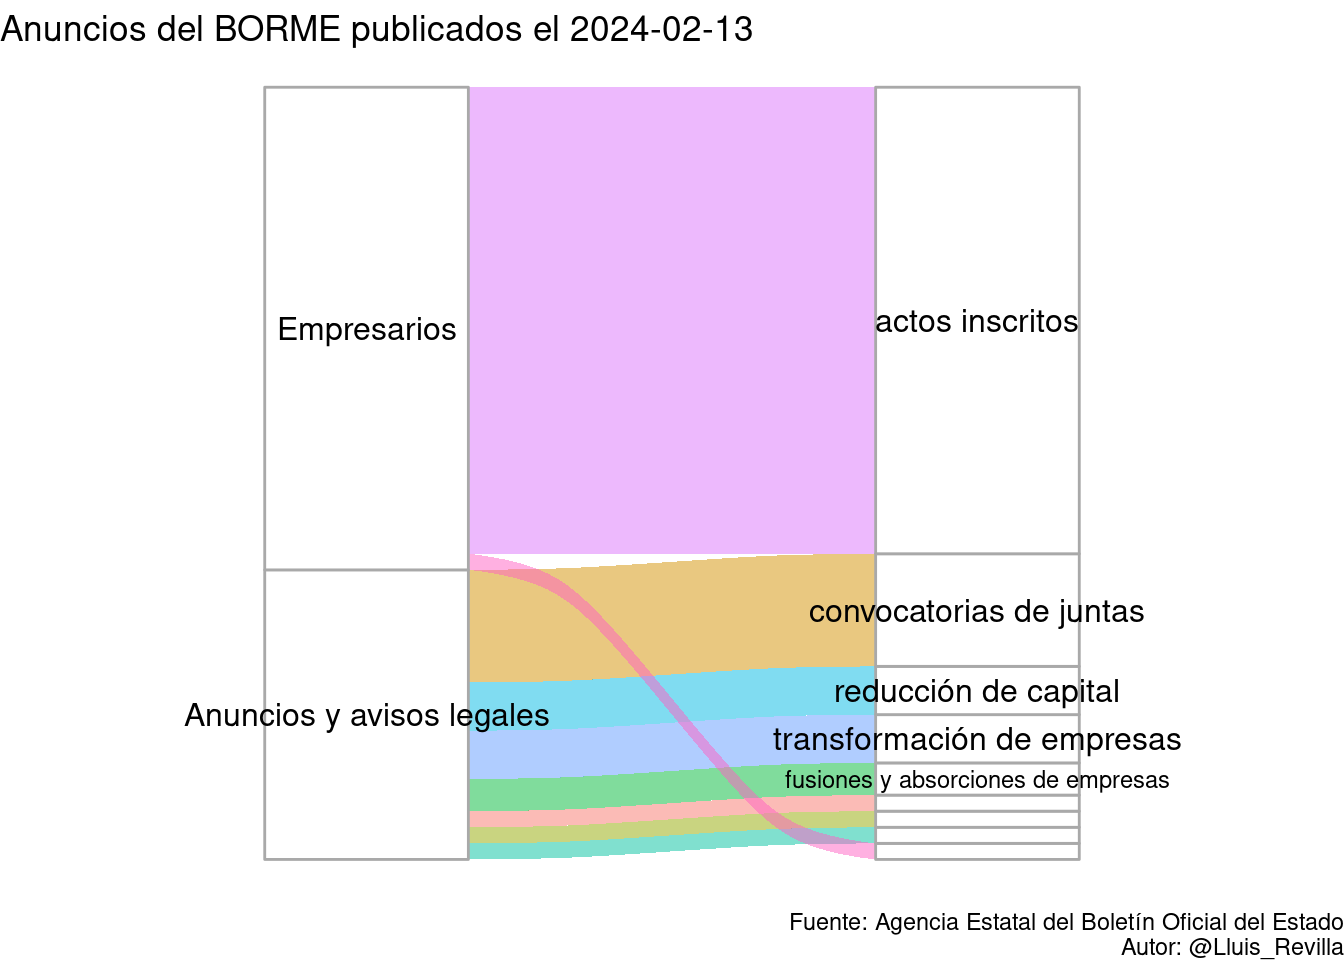
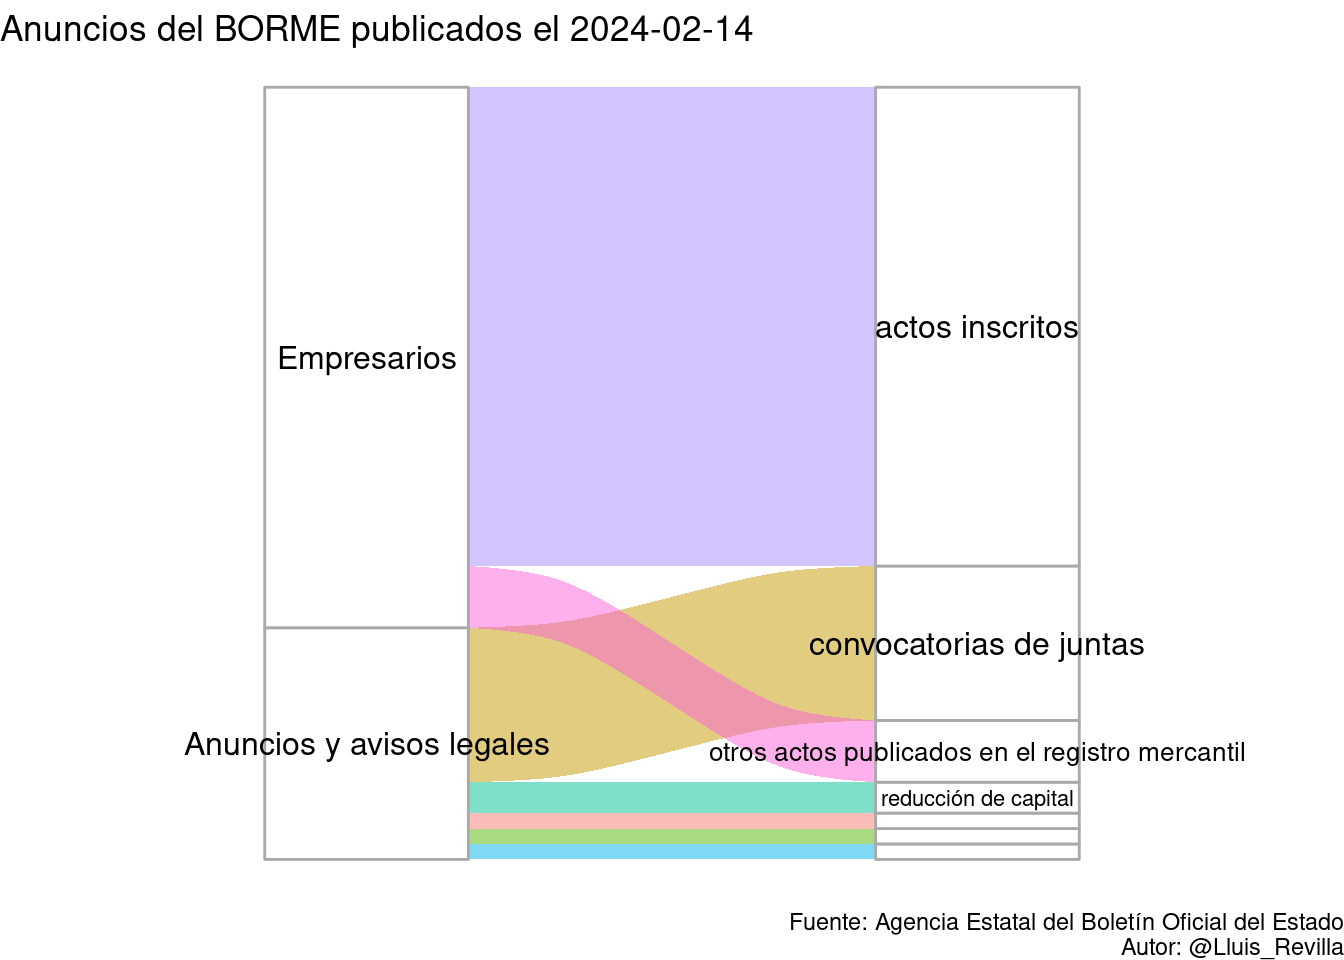
Update BORME

Changed region(s): [[0.125, 0.0938, 0.9375, 0.9062], [0.5312, 0.0, 0.5625, 0.0625]]

diff --git a/docs/last_BORME.html b/docs/last_BORME.html
@@ -379,14 +379,14 @@ $(document).ready(function () {
 
 <div id="resumen-gráfico" class="section level1">
 <h1>Resumen gráfico</h1>
-<p>Esta página web contiene el último sumario del BORME publicado el 2024-02-13 con 48 publicaciones.</p>
+<p>Esta página web contiene el último sumario del BORME publicado el 2024-02-14 con 50 publicaciones.</p>
 <p><img src="last_BORME_files/figure-html/graphics-1.png" width="672" /></p>
 </div>
 <div id="tabla-de-publicaciones" class="section level1">
 <h1>Tabla de publicaciones</h1>
 <p>Aquí está la tabla completa con enlaces a las publicaciones:</p>
-<div class="datatables html-widget html-fill-item-overflow-hidden html-fill-item" id="htmlwidget-06c4f63d8e0a72043e4e" style="width:100%;height:auto;"></div>
-<script type="application/json" data-for="htmlwidget-06c4f63d8e0a72043e4e">{"x":{"filter":"top","vertical":false,"filterHTML":"<tr>\n  <td><\/td>\n  <td data-type=\"character\" style=\"vertical-align: top;\">\n    <div class=\"form-group has-feedback\" style=\"margin-bottom: auto;\">\n      <input type=\"search\" placeholder=\"All\" class=\"form-control\" style=\"width: 100%;\"/>\n      <span class=\"glyphicon glyphicon-remove-circle form-control-feedback\"><\/span>\n    <\/div>\n  <\/td>\n  <td data-type=\"character\" style=\"vertical-align: top;\">\n    <div class=\"form-group has-feedback\" style=\"margin-bottom: auto;\">\n      <input type=\"search\" placeholder=\"All\" class=\"form-control\" style=\"width: 100%;\"/>\n      <span class=\"glyphicon glyphicon-remove-circle form-control-feedback\"><\/span>\n    <\/div>\n  <\/td>\n  <td data-type=\"character\" style=\"vertical-align: top;\">\n    <div class=\"form-group has-feedback\" style=\"margin-bottom: auto;\">\n      <input type=\"search\" placeholder=\"All\" class=\"form-control\" style=\"width: 100%;\" disabled=\"\"/>\n      <span class=\"glyphicon glyphicon-remove-circle form-control-feedback\"><\/span>\n    <\/div>\n  <\/td>\n  <td data-type=\"character\" style=\"vertical-align: top;\">\n    <div class=\"form-group has-feedback\" style=\"margin-bottom: auto;\">\n      <input type=\"search\" placeholder=\"All\" class=\"form-control\" style=\"width: 100%;\"/>\n      <span class=\"glyphicon glyphicon-remove-circle form-control-feedback\"><\/span>\n    <\/div>\n  <\/td>\n<\/tr>","data":[["1","2","3","4","5","6","7","8","9","10","11","12","13","14","15","16","17","18","19","20","21","22","23","24","25","26","27","28","29","30","31","32","33","34","35","36","37","38","39","40","41","42","43","44","45","46","47","48"],["SECCIÓN PRIMERA. Empresarios","SECCIÓN PRIMERA. Empresarios","SECCIÓN PRIMERA. Empresarios","SECCIÓN PRIMERA. Empresarios","SECCIÓN PRIMERA. Empresarios","SECCIÓN PRIMERA. Empresarios","SECCIÓN PRIMERA. Empresarios","SECCIÓN PRIMERA. Empresarios","SECCIÓN PRIMERA. Empresarios","SECCIÓN PRIMERA. Empresarios","SECCIÓN PRIMERA. Empresarios","SECCIÓN PRIMERA. Empresarios","SECCIÓN PRIMERA. Empresarios","SECCIÓN PRIMERA. Empresarios","SECCIÓN PRIMERA. Empresarios","SECCIÓN PRIMERA. Empresarios","SECCIÓN PRIMERA. Empresarios","SECCIÓN PRIMERA. Empresarios","SECCIÓN PRIMERA. Empresarios","SECCIÓN PRIMERA. Empresarios","SECCIÓN PRIMERA. Empresarios","SECCIÓN PRIMERA. Empresarios","SECCIÓN PRIMERA. Empresarios","SECCIÓN PRIMERA. Empresarios","SECCIÓN PRIMERA. Empresarios","SECCIÓN PRIMERA. Empresarios","SECCIÓN PRIMERA. Empresarios","SECCIÓN PRIMERA. Empresarios","SECCIÓN PRIMERA. Empresarios","SECCIÓN PRIMERA. Empresarios","SECCIÓN SEGUNDA. Anuncios y avisos legales","SECCIÓN SEGUNDA. Anuncios y avisos legales","SECCIÓN SEGUNDA. Anuncios y avisos legales","SECCIÓN SEGUNDA. Anuncios y avisos legales","SECCIÓN SEGUNDA. Anuncios y avisos legales","SECCIÓN SEGUNDA. Anuncios y avisos legales","SECCIÓN SEGUNDA. Anuncios y avisos legales","SECCIÓN SEGUNDA. Anuncios y avisos legales","SECCIÓN SEGUNDA. Anuncios y avisos legales","SECCIÓN SEGUNDA. Anuncios y avisos legales","SECCIÓN SEGUNDA. Anuncios y avisos legales","SECCIÓN SEGUNDA. Anuncios y avisos legales","SECCIÓN SEGUNDA. Anuncios y avisos legales","SECCIÓN SEGUNDA. Anuncios y avisos legales","SECCIÓN SEGUNDA. Anuncios y avisos legales","SECCIÓN SEGUNDA. Anuncios y avisos legales","SECCIÓN SEGUNDA. Anuncios y avisos legales","SECCIÓN SEGUNDA. Anuncios y avisos legales"],["Actos inscritos","Actos inscritos","Actos inscritos","Actos inscritos","Actos inscritos","Actos inscritos","Actos inscritos","Actos inscritos","Actos inscritos","Actos inscritos","Actos inscritos","Actos inscritos","Actos inscritos","Actos inscritos","Actos inscritos","Actos inscritos","Actos inscritos","Actos inscritos","Actos inscritos","Actos inscritos","Actos inscritos","Actos inscritos","Actos inscritos","Actos inscritos","Actos inscritos","Actos inscritos","Actos inscritos","Actos inscritos","Actos inscritos","Otros actos publicados en el Registro Mercantil","CONVOCATORIAS DE JUNTAS","CONVOCATORIAS DE JUNTAS","CONVOCATORIAS DE JUNTAS","CONVOCATORIAS DE JUNTAS","CONVOCATORIAS DE JUNTAS","CONVOCATORIAS DE JUNTAS","CONVOCATORIAS DE JUNTAS","FUSIONES Y ABSORCIONES DE EMPRESAS","FUSIONES Y ABSORCIONES DE EMPRESAS","ESCISIÓN DE EMPRESAS","TRANSFORMACIÓN DE EMPRESAS","TRANSFORMACIÓN DE EMPRESAS","TRANSFORMACIÓN DE EMPRESAS","AUMENTO DE CAPITAL","REDUCCIÓN DE CAPITAL","REDUCCIÓN DE CAPITAL","REDUCCIÓN DE CAPITAL","OTROS ANUNCIOS Y AVISOS LEGALES"],[null,null,null,null,null,null,null,null,null,null,null,null,null,null,null,null,null,null,null,null,null,null,null,null,null,null,null,null,null,null,null,null,null,null,null,null,null,null,null,null,null,null,null,null,null,null,null,null],["BORME-A-2024-31-02","BORME-A-2024-31-03","BORME-A-2024-31-04","BORME-A-2024-31-06","BORME-A-2024-31-07","BORME-A-2024-31-08","BORME-A-2024-31-11","BORME-A-2024-31-12","BORME-A-2024-31-13","BORME-A-2024-31-14","BORME-A-2024-31-15","BORME-A-2024-31-21","BORME-A-2024-31-22","BORME-A-2024-31-25","BORME-A-2024-31-26","BORME-A-2024-31-28","BORME-A-2024-31-29","BORME-A-2024-31-30","BORME-A-2024-31-35","BORME-A-2024-31-36","BORME-A-2024-31-40","BORME-A-2024-31-43","BORME-A-2024-31-44","BORME-A-2024-31-45","BORME-A-2024-31-46","BORME-A-2024-31-47","BORME-A-2024-31-48","BORME-A-2024-31-50","BORME-A-2024-31-99","BORME-B-2024-31-08","BORME-C-2024-461","BORME-C-2024-462","BORME-C-2024-463","BORME-C-2024-464","BORME-C-2024-465","BORME-C-2024-466","BORME-C-2024-467","BORME-C-2024-468","BORME-C-2024-469","BORME-C-2024-470","BORME-C-2024-471","BORME-C-2024-472","BORME-C-2024-473","BORME-C-2024-474","BORME-C-2024-475","BORME-C-2024-476","BORME-C-2024-477","BORME-C-2024-478"]],"container":"<table class=\"display\">\n  <thead>\n    <tr>\n      <th> <\/th>\n      <th>Sección<\/th>\n      <th>Emisor<\/th>\n      <th>Texto<\/th>\n      <th>Link<\/th>\n    <\/tr>\n  <\/thead>\n<\/table>","options":{"pageLength":10,"autoWidth":true,"columnDefs":[{"orderable":false,"targets":0},{"name":" ","targets":0},{"name":"Sección","targets":1},{"name":"Emisor","targets":2},{"name":"Texto","targets":3},{"name":"Link","targets":4}],"order":[],"orderClasses":false,"orderCellsTop":true}},"evals":[],"jsHooks":[]}</script>
+<div class="datatables html-widget html-fill-item-overflow-hidden html-fill-item" id="htmlwidget-d35bfb66392632e34597" style="width:100%;height:auto;"></div>
+<script type="application/json" data-for="htmlwidget-d35bfb66392632e34597">{"x":{"filter":"top","vertical":false,"filterHTML":"<tr>\n  <td><\/td>\n  <td data-type=\"character\" style=\"vertical-align: top;\">\n    <div class=\"form-group has-feedback\" style=\"margin-bottom: auto;\">\n      <input type=\"search\" placeholder=\"All\" class=\"form-control\" style=\"width: 100%;\"/>\n      <span class=\"glyphicon glyphicon-remove-circle form-control-feedback\"><\/span>\n    <\/div>\n  <\/td>\n  <td data-type=\"character\" style=\"vertical-align: top;\">\n    <div class=\"form-group has-feedback\" style=\"margin-bottom: auto;\">\n      <input type=\"search\" placeholder=\"All\" class=\"form-control\" style=\"width: 100%;\"/>\n      <span class=\"glyphicon glyphicon-remove-circle form-control-feedback\"><\/span>\n    <\/div>\n  <\/td>\n  <td data-type=\"character\" style=\"vertical-align: top;\">\n    <div class=\"form-group has-feedback\" style=\"margin-bottom: auto;\">\n      <input type=\"search\" placeholder=\"All\" class=\"form-control\" style=\"width: 100%;\" disabled=\"\"/>\n      <span class=\"glyphicon glyphicon-remove-circle form-control-feedback\"><\/span>\n    <\/div>\n  <\/td>\n  <td data-type=\"character\" style=\"vertical-align: top;\">\n    <div class=\"form-group has-feedback\" style=\"margin-bottom: auto;\">\n      <input type=\"search\" placeholder=\"All\" class=\"form-control\" style=\"width: 100%;\"/>\n      <span class=\"glyphicon glyphicon-remove-circle form-control-feedback\"><\/span>\n    <\/div>\n  <\/td>\n<\/tr>","data":[["1","2","3","4","5","6","7","8","9","10","11","12","13","14","15","16","17","18","19","20","21","22","23","24","25","26","27","28","29","30","31","32","33","34","35","36","37","38","39","40","41","42","43","44","45","46","47","48","49","50"],["SECCIÓN PRIMERA. Empresarios","SECCIÓN PRIMERA. Empresarios","SECCIÓN PRIMERA. Empresarios","SECCIÓN PRIMERA. Empresarios","SECCIÓN PRIMERA. Empresarios","SECCIÓN PRIMERA. Empresarios","SECCIÓN PRIMERA. Empresarios","SECCIÓN PRIMERA. Empresarios","SECCIÓN PRIMERA. Empresarios","SECCIÓN PRIMERA. Empresarios","SECCIÓN PRIMERA. Empresarios","SECCIÓN PRIMERA. Empresarios","SECCIÓN PRIMERA. Empresarios","SECCIÓN PRIMERA. Empresarios","SECCIÓN PRIMERA. Empresarios","SECCIÓN PRIMERA. Empresarios","SECCIÓN PRIMERA. Empresarios","SECCIÓN PRIMERA. Empresarios","SECCIÓN PRIMERA. Empresarios","SECCIÓN PRIMERA. Empresarios","SECCIÓN PRIMERA. Empresarios","SECCIÓN PRIMERA. Empresarios","SECCIÓN PRIMERA. Empresarios","SECCIÓN PRIMERA. Empresarios","SECCIÓN PRIMERA. Empresarios","SECCIÓN PRIMERA. Empresarios","SECCIÓN PRIMERA. Empresarios","SECCIÓN PRIMERA. Empresarios","SECCIÓN PRIMERA. Empresarios","SECCIÓN PRIMERA. Empresarios","SECCIÓN PRIMERA. Empresarios","SECCIÓN PRIMERA. Empresarios","SECCIÓN PRIMERA. Empresarios","SECCIÓN PRIMERA. Empresarios","SECCIÓN PRIMERA. Empresarios","SECCIÓN SEGUNDA. Anuncios y avisos legales","SECCIÓN SEGUNDA. Anuncios y avisos legales","SECCIÓN SEGUNDA. Anuncios y avisos legales","SECCIÓN SEGUNDA. Anuncios y avisos legales","SECCIÓN SEGUNDA. Anuncios y avisos legales","SECCIÓN SEGUNDA. Anuncios y avisos legales","SECCIÓN SEGUNDA. Anuncios y avisos legales","SECCIÓN SEGUNDA. Anuncios y avisos legales","SECCIÓN SEGUNDA. Anuncios y avisos legales","SECCIÓN SEGUNDA. Anuncios y avisos legales","SECCIÓN SEGUNDA. Anuncios y avisos legales","SECCIÓN SEGUNDA. Anuncios y avisos legales","SECCIÓN SEGUNDA. Anuncios y avisos legales","SECCIÓN SEGUNDA. Anuncios y avisos legales","SECCIÓN SEGUNDA. Anuncios y avisos legales"],["Actos inscritos","Actos inscritos","Actos inscritos","Actos inscritos","Actos inscritos","Actos inscritos","Actos inscritos","Actos inscritos","Actos inscritos","Actos inscritos","Actos inscritos","Actos inscritos","Actos inscritos","Actos inscritos","Actos inscritos","Actos inscritos","Actos inscritos","Actos inscritos","Actos inscritos","Actos inscritos","Actos inscritos","Actos inscritos","Actos inscritos","Actos inscritos","Actos inscritos","Actos inscritos","Actos inscritos","Actos inscritos","Actos inscritos","Actos inscritos","Actos inscritos","Otros actos publicados en el Registro Mercantil","Otros actos publicados en el Registro Mercantil","Otros actos publicados en el Registro Mercantil","Otros actos publicados en el Registro Mercantil","CONVOCATORIAS DE JUNTAS","CONVOCATORIAS DE JUNTAS","CONVOCATORIAS DE JUNTAS","CONVOCATORIAS DE JUNTAS","CONVOCATORIAS DE JUNTAS","CONVOCATORIAS DE JUNTAS","CONVOCATORIAS DE JUNTAS","CONVOCATORIAS DE JUNTAS","CONVOCATORIAS DE JUNTAS","CONVOCATORIAS DE JUNTAS","FUSIONES Y ABSORCIONES DE EMPRESAS","CESIÓN DE EMPRESAS","TRANSFORMACIÓN DE EMPRESAS","REDUCCIÓN DE CAPITAL","REDUCCIÓN DE CAPITAL"],[null,null,null,null,null,null,null,null,null,null,null,null,null,null,null,null,null,null,null,null,null,null,null,null,null,null,null,null,null,null,null,null,null,null,null,null,null,null,null,null,null,null,null,null,null,null,null,null,null,null],["BORME-A-2024-32-01","BORME-A-2024-32-02","BORME-A-2024-32-03","BORME-A-2024-32-04","BORME-A-2024-32-06","BORME-A-2024-32-07","BORME-A-2024-32-08","BORME-A-2024-32-11","BORME-A-2024-32-12","BORME-A-2024-32-15","BORME-A-2024-32-17","BORME-A-2024-32-23","BORME-A-2024-32-24","BORME-A-2024-32-25","BORME-A-2024-32-27","BORME-A-2024-32-28","BORME-A-2024-32-29","BORME-A-2024-32-30","BORME-A-2024-32-31","BORME-A-2024-32-32","BORME-A-2024-32-34","BORME-A-2024-32-35","BORME-A-2024-32-36","BORME-A-2024-32-41","BORME-A-2024-32-43","BORME-A-2024-32-45","BORME-A-2024-32-46","BORME-A-2024-32-47","BORME-A-2024-32-50","BORME-A-2024-32-51","BORME-A-2024-32-99","BORME-B-2024-32-07","BORME-B-2024-32-08","BORME-B-2024-32-28","BORME-B-2024-32-43","BORME-C-2024-479","BORME-C-2024-480","BORME-C-2024-481","BORME-C-2024-482","BORME-C-2024-483","BORME-C-2024-484","BORME-C-2024-485","BORME-C-2024-486","BORME-C-2024-487","BORME-C-2024-488","BORME-C-2024-489","BORME-C-2024-490","BORME-C-2024-491","BORME-C-2024-492","BORME-C-2024-493"]],"container":"<table class=\"display\">\n  <thead>\n    <tr>\n      <th> <\/th>\n      <th>Sección<\/th>\n      <th>Emisor<\/th>\n      <th>Texto<\/th>\n      <th>Link<\/th>\n    <\/tr>\n  <\/thead>\n<\/table>","options":{"pageLength":10,"autoWidth":true,"columnDefs":[{"orderable":false,"targets":0},{"name":" ","targets":0},{"name":"Sección","targets":1},{"name":"Emisor","targets":2},{"name":"Texto","targets":3},{"name":"Link","targets":4}],"order":[],"orderClasses":false,"orderCellsTop":true}},"evals":[],"jsHooks":[]}</script>
 </div>
 
 
